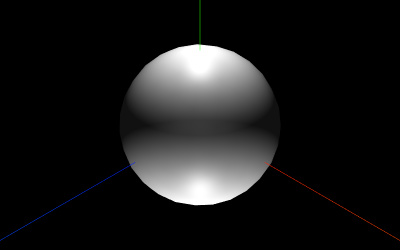
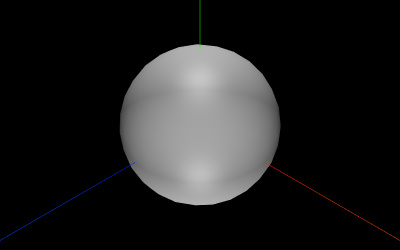
Examples: Clean up webgl_buffergeometry_compression.html (#25118)
* Clean up

* Updated screenshot

Changed region(s): [[0.3, 0.168, 0.72, 0.84]]

diff --git a/examples/webgl_buffergeometry_compression.html b/examples/webgl_buffergeometry_compression.html
@@ -65,7 +65,7 @@
 
 			// materials
 			const lineMaterial = new THREE.LineBasicMaterial( { color: 0xaaaaaa, transparent: true, opacity: 0.8 } );
-			const meshMaterial = new THREE.MeshPhongMaterial( { color: 0xffffff, emissive: 0x111111 } );
+			const meshMaterial = new THREE.MeshPhongMaterial( { color: 0xffffff, side: THREE.DoubleSide } );
 
 			// texture
 			const texture = new THREE.TextureLoader().load( 'textures/uv_grid_opengl.jpg' );
@@ -80,6 +80,7 @@
 			function init() {
 
 				//
+
 				container = document.createElement( 'div' );
 				document.body.appendChild( container );
 
@@ -92,18 +93,18 @@
 
 				scene = new THREE.Scene();
 
-				camera = new THREE.PerspectiveCamera( 50, window.innerWidth / window.innerHeight, 0.01, 10000000 );
-				camera.position.x = 2 * radius;
-				camera.position.y = 2 * radius;
-				camera.position.z = 2 * radius;
+				camera = new THREE.PerspectiveCamera( 50, window.innerWidth / window.innerHeight, 1, 1000 );
+				camera.position.setScalar( 2 * radius );
 
 				controls = new OrbitControls( camera, renderer.domElement );
+				controls.enablePan = false;
+				controls.enableZoom = false;
 
 				//
 
-				lights[ 0 ] = new THREE.PointLight( 0xffffff, 1, 0 );
-				lights[ 1 ] = new THREE.PointLight( 0xffffff, 1, 0 );
-				lights[ 2 ] = new THREE.PointLight( 0xffffff, 1, 0 );
+				lights[ 0 ] = new THREE.DirectionalLight( 0xffffff, 0.7 );
+				lights[ 1 ] = new THREE.DirectionalLight( 0xffffff, 0.7 );
+				lights[ 2 ] = new THREE.DirectionalLight( 0xffffff, 0.7 );
 
 				lights[ 0 ].position.set( 0, 2 * radius, 0 );
 				lights[ 1 ].position.set( 2 * radius, - 2 * radius, 2 * radius );
@@ -122,10 +123,11 @@
 				let geom = newGeometry( data );
 
 				const mesh = new THREE.Mesh( geom, meshMaterial );
+				scene.add( mesh );
+
 				const lineSegments = new THREE.LineSegments( new THREE.WireframeGeometry( geom ), lineMaterial );
 				lineSegments.visible = data.wireframe;
 
-				scene.add( mesh );
 				scene.add( lineSegments );
 
 				//
@@ -140,13 +142,13 @@
 						case 'Icosahedron':
 							return new THREE.IcosahedronGeometry( radius, data.detail );
 						case 'Cylinder':
-							return new THREE.CylinderGeometry( radius, radius, radius * 2, data.detail * 6 );
+							return new THREE.CylinderGeometry( radius / 1.5 , radius / 1.5, radius, data.detail * 6 );
 						case 'Teapot':
-							return new TeapotGeometry( radius, data.detail * 3, true, true, true, true, true );
+							return new TeapotGeometry( radius / 1.5, data.detail * 3, true, true, true, true, true );
 						case 'TorusKnot':
-							return new THREE.TorusKnotGeometry( radius, 10, data.detail * 20, data.detail * 6, 3, 4 );
+							return new THREE.TorusKnotGeometry( radius / 2, 10, data.detail * 30, data.detail * 6, 3, 4 );
 
-		}
+					}
 
 				}
 
@@ -154,15 +156,10 @@
 
 					geom = newGeometry( data );
 
-					updateGroupGeometry(
-						mesh,
-						lineSegments,
-						geom,
-						data );
+					updateGroupGeometry( mesh, lineSegments, geom, data );
 
 				}
 
-				// updateLineSegments
 				function updateLineSegments() {
 
 					lineSegments.visible = data.wireframe;
@@ -214,20 +211,8 @@
 				renderer.setSize( window.innerWidth, window.innerHeight );
 
 				camera.aspect = window.innerWidth / window.innerHeight;
+
 				camera.updateProjectionMatrix();
-
-			}
-
-			//
-			function updateLightsPossition() {
-
-				lights.forEach( light => {
-
-					const direction = light.position.clone();
-					direction.applyAxisAngle( new THREE.Vector3( 1, 1, 0 ), data.rotationSpeed / 180 * Math.PI );
-					light.position.add( direction.sub( light.position ) );
-
-				} );
 
 			}
 
@@ -236,9 +221,6 @@
 			function animate() {
 
 				requestAnimationFrame( animate );
-
-				controls.update();
-				updateLightsPossition();
 
 				renderer.render( scene, camera );
 
@@ -251,12 +233,15 @@
 			function updateGroupGeometry( mesh, lineSegments, geometry, data ) {
 
 				// dispose first
+
 				lineSegments.geometry.dispose();
 				mesh.geometry.dispose();
+				mesh.material.dispose();
+				if ( mesh.material.map ) mesh.material.map.dispose();
 
 				lineSegments.geometry = new THREE.WireframeGeometry( geometry );
 				mesh.geometry = geometry;
-				mesh.material = new THREE.MeshPhongMaterial( { color: 0xffffff, emissive: 0x111111 } );
+				mesh.material = new THREE.MeshPhongMaterial( { color: 0xffffff, side: THREE.DoubleSide } );
 				mesh.material.map = data.texture ? texture : null;
 
 				if ( data[ 'QuantizePosEncoding' ] ) {
@@ -285,6 +270,7 @@
 			function computeGPUMemory( mesh ) {
 
 				// Use BufferGeometryUtils to do memory calculation
+
 				memoryDisplay.setValue( BufferGeometryUtils.estimateBytesUsed( mesh.geometry ) + ' bytes' );
 
 			}
